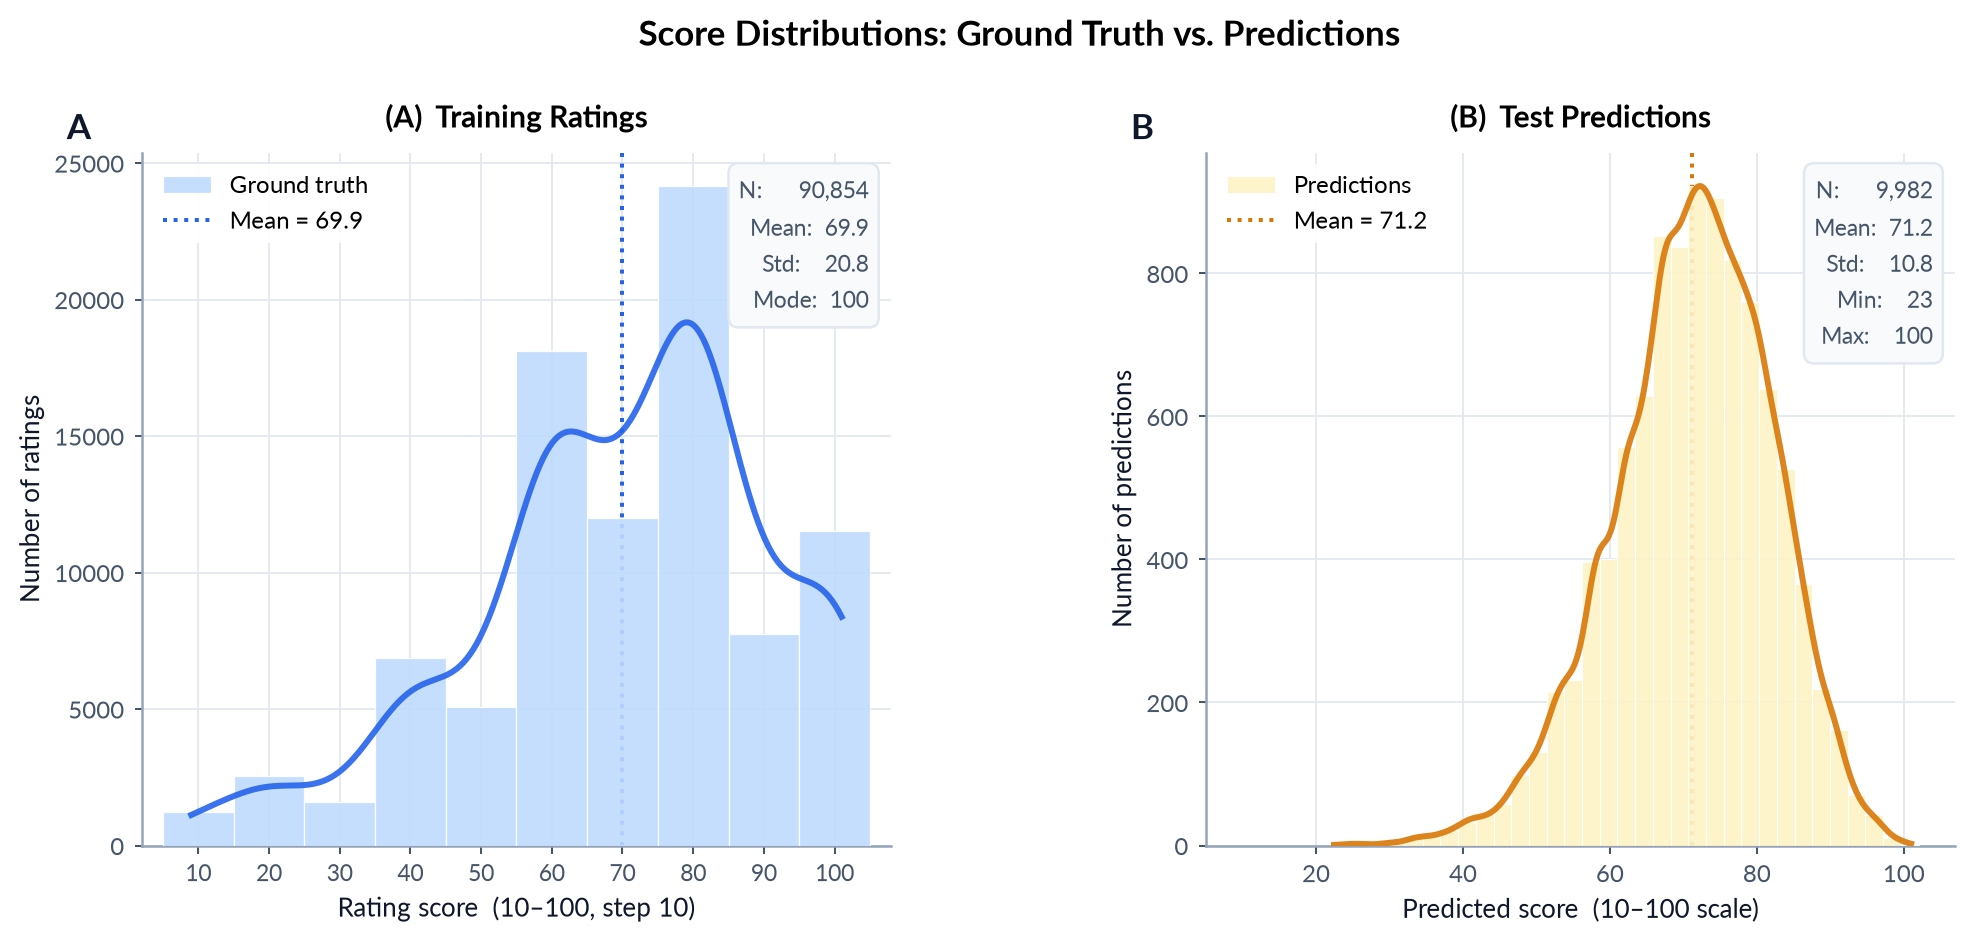
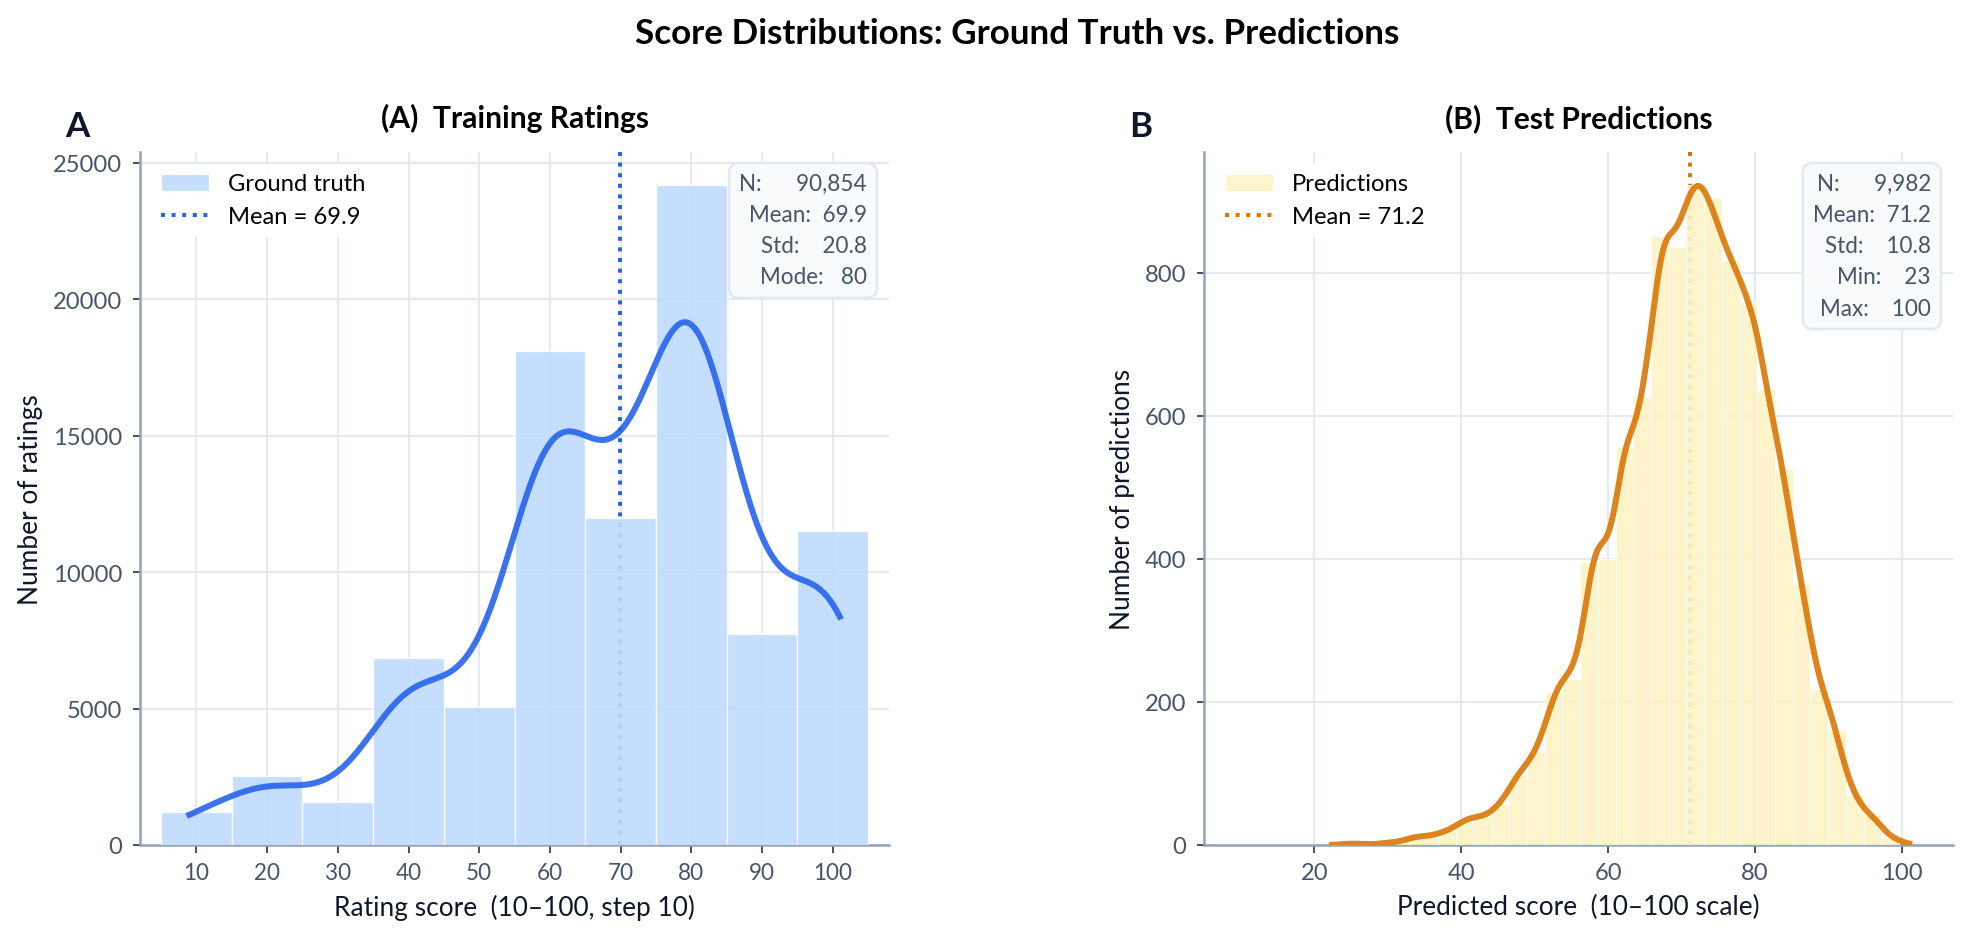
fix(lab2/task1): correct three data errors in report statistics
- Max item rating count: 251 → 280 (verified from train.txt)
- Cold-start item count: 1,647 → 3,019 (verified from train.txt)
- Mode frequency description: 约19,000 → 24,177 (verified from train.txt)
- Fix hardcoded Mode annotation in figure stat boxes: 100 → 80
- Regenerate dataset_overview.png and prediction_distribution.png

diff --git a/lab2/task1/report/main.tex b/lab2/task1/report/main.tex
@@ -210,8 +210,8 @@ captionpos=b
     评分标准差 & 20.8 \\
     评分众数 & 80 \\
     最大用户评分数 & 2,678 \\
-    最大物品被评次数 & 251 \\
-    仅出现 1 次的物品数（冷启动） & 1,647 \\
+    最大物品被评次数 & 280 \\
+    仅出现 1 次的物品数（冷启动） & 3,019 \\
     测试对数 & 9,982 \\
     \bottomrule
   \end{tabular}
@@ -225,7 +225,7 @@ captionpos=b
 \end{figure}
 
 \begin{tcolorbox}[colback=cyan!5!white,colframe=cyan!75!black,title=数据集特征分析]
-  \hspace{2em}图~\ref{fig:dataset-overview} 面板 A 展示了离散评分的频率分布，分数 80 出现频率最高（约 19,000 次），整体分布右偏，高分频次较多。面板 B 和 C 分别以对数尺度展示用户活跃度和物品受欢迎度，两者均呈现出典型的幂律长尾分布：少数活跃用户和少数热门物品贡献了大量评分，而多数用户和物品的评分次数极少。这种长尾特性是推荐系统中冷启动问题的根源，也是评估模型鲁棒性的重要维度。
+  \hspace{2em}图~\ref{fig:dataset-overview} 面板 A 展示了离散评分的频率分布，分数 80 出现频率最高（24,177 次），整体分布右偏，高分频次较多。面板 B 和 C 分别以对数尺度展示用户活跃度和物品受欢迎度，两者均呈现出典型的幂律长尾分布：少数活跃用户和少数热门物品贡献了大量评分，而多数用户和物品的评分次数极少。这种长尾特性是推荐系统中冷启动问题的根源，也是评估模型鲁棒性的重要维度。
 \end{tcolorbox}
 
 % ============================================================

diff --git a/lab2/task1/report/generate_report_assets.py b/lab2/task1/report/generate_report_assets.py
@@ -211,7 +211,7 @@ def fig_dataset_overview(ratings):
               f"Total:  {len(scores):,}\n"
               f"Mean:   {scores.mean():.1f}\n"
               f"Std:    {scores.std():.1f}\n"
-              f"Mode:   100",
+              f"Mode:    80",
               loc="upper left")
 
     # ── Panel B: user activity (log x-axis reveals long tail) ─────────────────
@@ -669,7 +669,7 @@ def fig_prediction_distribution(ratings, preds):
               f"N:      {len(true_scores):,}\n"
               f"Mean:  {true_scores.mean():.1f}\n"
               f"Std:    {true_scores.std():.1f}\n"
-              f"Mode:  100",
+              f"Mode:   80",
               loc="upper right")
     _tag(ax, "A")
 